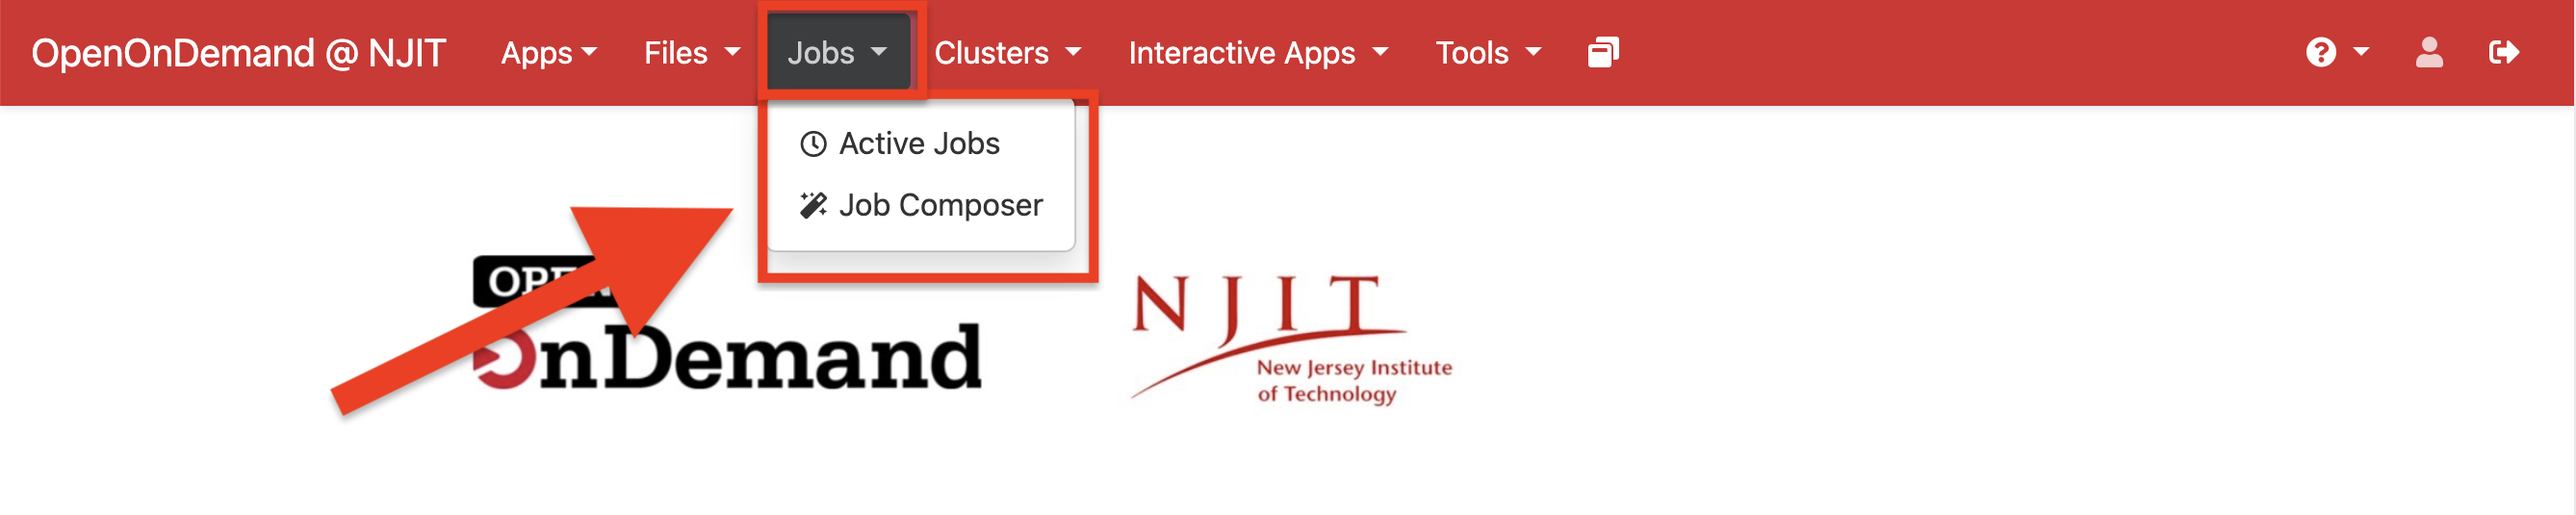
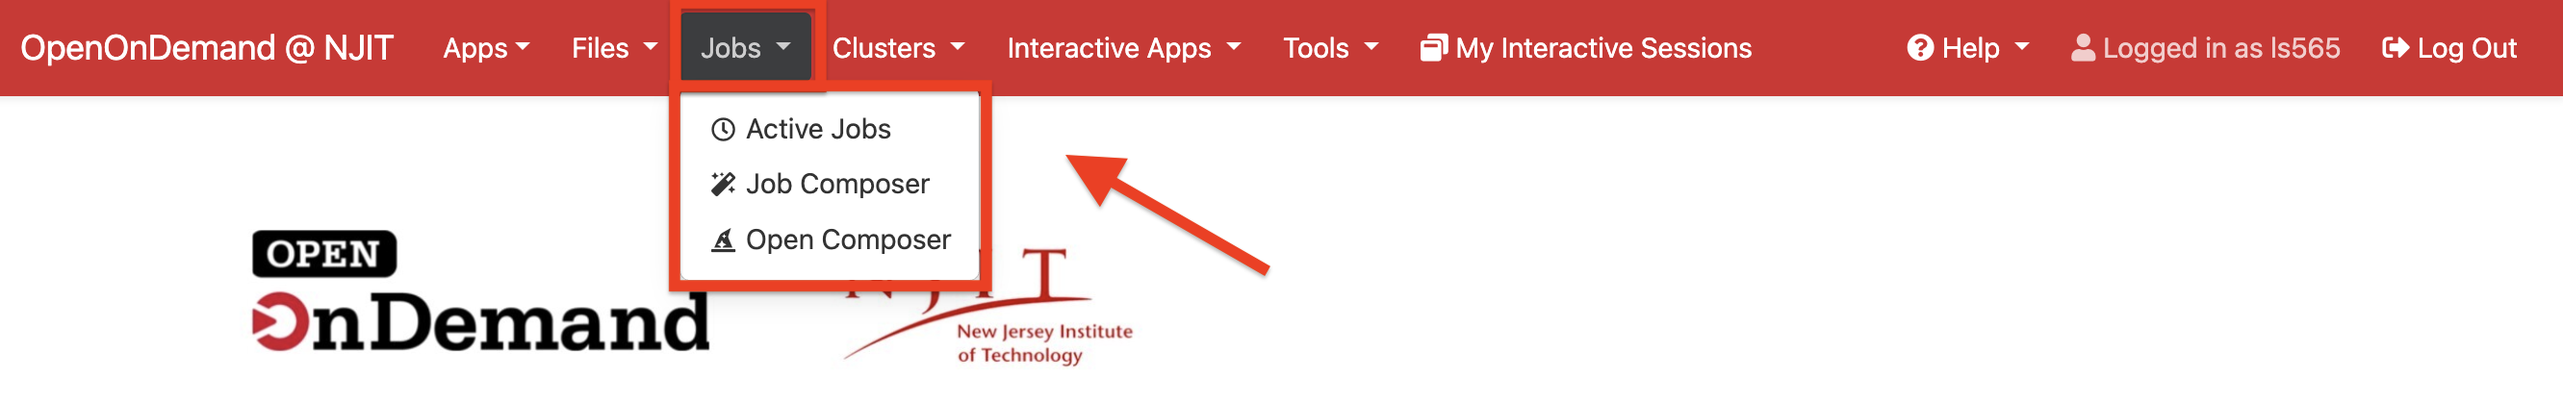
ood/jobs: Add Open Composer

Changed region(s): [[0.0, 0.0, 1.0, 0.8998], [0.7169, 0.0931, 0.7792, 0.1551]]

diff --git a/docs/OnDemand/Jobs/job_composer.md b/docs/OnDemand/Jobs/job_composer.md
@@ -1,14 +1,4 @@
-# Jobs
-## Overview
-
-The Jobs menu on the menu bar includes both the Job Composer and the Active Jobs tools. The Job Composer assists you to set up and submit jobs to the cluster through a graphical interface using file management tools and access to job templates. 
-
-![jobs-dropdown.png](../assets/ondemand/jobs/jobs-dropdown.png){ width=100% height=100%}
-
-
-## Job Composer
-
-![jobs-dashboard.png](../assets/ondemand/jobs/jobs-dashboard.png){ width=100% height=100%}
+![jobs-dashboard.png](../../assets/ondemand/jobs/jobs-dashboard.png){ width=100% height=100%}
 
 ### Creating a New Job
 
@@ -16,24 +6,24 @@ The Jobs menu on the menu bar includes both the Job Composer and the Active Jobs
 
     - Click New Job > From Default Template
 
-    ![jobcomposer-1.png](../assets/ondemand/jobs/jobcomposer-1.png){ width=100% height=100%}
+    ![jobcomposer-1.png](../../assets/ondemand/jobs/jobcomposer-1.png){ width=100% height=100%}
 
     - A new job (e.g., Simple Sequential Job) will appear in your job list.
 
     - Click Open Editor to open the directory in the File Editor.
 
-    ![jobcomposer-2.png](../assets/ondemand/jobs/jobcomposer-2.png){ width=100% height=100%}
+    ![jobcomposer-2.png](../../assets/ondemand/jobs/jobcomposer-2.png){ width=100% height=100%}
 
     - Modify the main_job.sh script as needed.
 
-    ![jobcomposer-3.png](../assets/ondemand/jobs/jobcomposer-3.png){ width=100% height=100%}
+    ![jobcomposer-3.png](../../assets/ondemand/jobs/jobcomposer-3.png){ width=100% height=100%}
 
     - Return to the Job Composer and click Job Options to adjust:
         - Job Name
         - Cluster (ensure it’s set to wulver)
         - Account (It will take the default account. If you have or ever had multiple accounts then you have to specify your account)
 
-    ![jobcomposer-4.png](../assets/ondemand/jobs/jobcomposer-4.png){ width=100% height=100%}
+    ![jobcomposer-4.png](../../assets/ondemand/jobs/jobcomposer-4.png){ width=100% height=100%}
 
     - Click Save to apply changes.    
 
@@ -76,30 +66,19 @@ The Jobs menu on the menu bar includes both the Job Composer and the Active Jobs
 	- Running: Currently executing.
 	- Completed: Finished execution.
 
-![jobcomposer-5.png](../assets/ondemand/jobs/jobcomposer-5.png){ width=100% height=100%}
+![jobcomposer-5.png](../../assets/ondemand/jobs/jobcomposer-5.png){ width=100% height=100%}
 
 ### Outputs
 
 - You can check the output/error in folder contents
 
-![jobcomposer-6.png](../assets/ondemand/jobs/jobcomposer-6.png){ width=100% height=100%}
+![jobcomposer-6.png](../../assets/ondemand/jobs/jobcomposer-6.png){ width=100% height=100%}
 
 - Check both files to confirm your program ran successfully.
 
-![jobcomposer-7.png](../assets/ondemand/jobs/jobcomposer-7.png){ width=100% height=100%}
+![jobcomposer-7.png](../../assets/ondemand/jobs/jobcomposer-7.png){ width=100% height=100%}
 
 !!! Note
     Even if an error might have occurred, your job status will still show complete.
-
-
-## Active Jobs
-
-The Active Jobs tool will allow you to view all the jobs you’ve submitted that are currently in the queue, via OnDemand or not, so you can check on their status.  
-
-![active_jobs1.png](../assets/ondemand/jobs/active_jobs1.png){ width=100% height=100%}
-
-You can expand each job to check more details. You can also open the current working directory of job in file manager or terminal by clicking `Open in File Manger` or `Open in Terminal` respectively.
-
-![active_jobs2.png](../assets/ondemand/jobs/active_jobs2.png){ width=100% height=100%}
 
 

diff --git a/docs/OnDemand/Jobs/index.md b/docs/OnDemand/Jobs/index.md
@@ -1,0 +1,24 @@
+# Jobs
+## Overview
+
+The Jobs menu on the menu bar includes Open Composer, Job Composer, and Active Jobs tools.
+
+- [Open Composer](open_composer.md) allows users to create and submit custom Slurm jobs by selecting job parameters and editing the job script directly in the browser. It is intended for users who want quick, flexible control over their job scripts.
+
+- [Job Composer](job_composer.md) assists users in setting up and submitting jobs through a graphical interface with file management tools and access to job templates.
+
+- [Active Jobs](#active-jobs) displays currently running or queued jobs and their status. You can monitor, cancel, or manage your jobs from this interface.
+
+![jobs-dropdown.png](../../assets/ondemand/jobs/jobs-dropdown.png){ width=100% height=100%}
+
+## Active Jobs
+
+The Active Jobs tool will allow you to view all the jobs you’ve submitted that are currently in the queue, via OnDemand or not, so you can check on their status.  
+
+![active_jobs1.png](../../assets/ondemand/jobs/active_jobs1.png){ width=100% height=100%}
+
+You can expand each job to check more details. You can also open the current working directory of job in file manager or terminal by clicking `Open in File Manger` or `Open in Terminal` respectively.
+
+![active_jobs2.png](../../assets/ondemand/jobs/active_jobs2.png){ width=100% height=100%}
+
+

diff --git a/docs/OnDemand/Jobs/open_composer.md b/docs/OnDemand/Jobs/open_composer.md
@@ -1,0 +1,27 @@
+# Open Composer
+
+![opencomposer-1.png](../../assets/ondemand/jobs/opencomposer-1.png){ width=100% height=100%}
+
+**Open Composer** lets you create and submit custom Slurm jobs.
+
+- Set job parameters (account, QoS, partition, walltime, cores, memory, etc.)
+
+- Choose the script location, script name, and job name
+
+- Edit the script content to add the commands they want to run
+
+- Use **Advanced Options** to configure a job array
+
+- Submit the job directly to Slurm  
+
+## History Page
+
+The **History** page shows submitted jobs and their current status.
+
+![opencomposer-2.png](../../assets/ondemand/jobs/opencomposer-2.png){ width=100% height=100%}
+
+- View job status (Running, Queued, Completed, etc.)
+
+- **Cancel** — terminates the running Slurm job
+
+- **Delete** — removes the entry from the History page only (does not affect the actual job)
